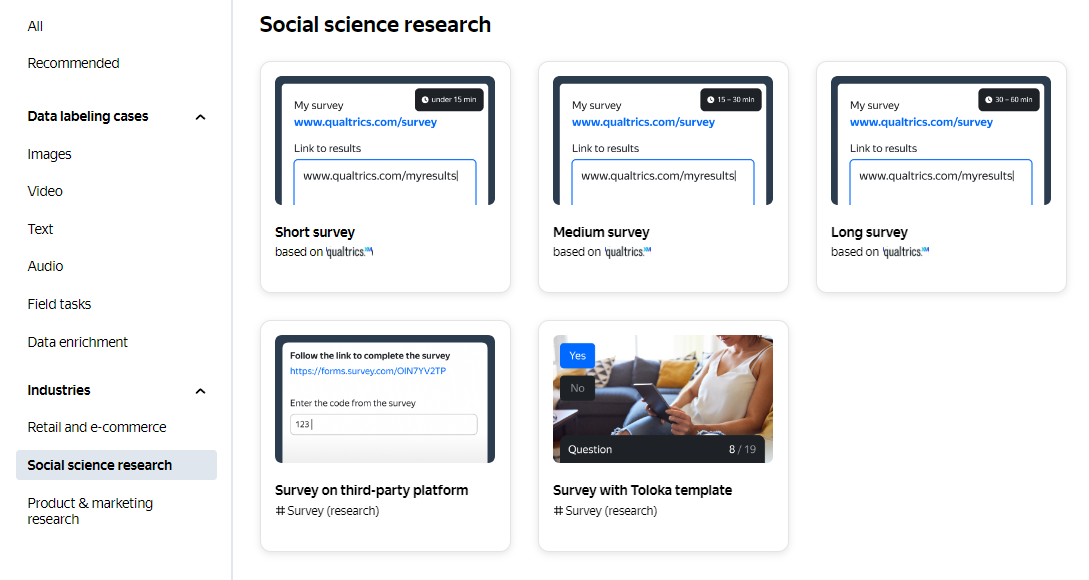
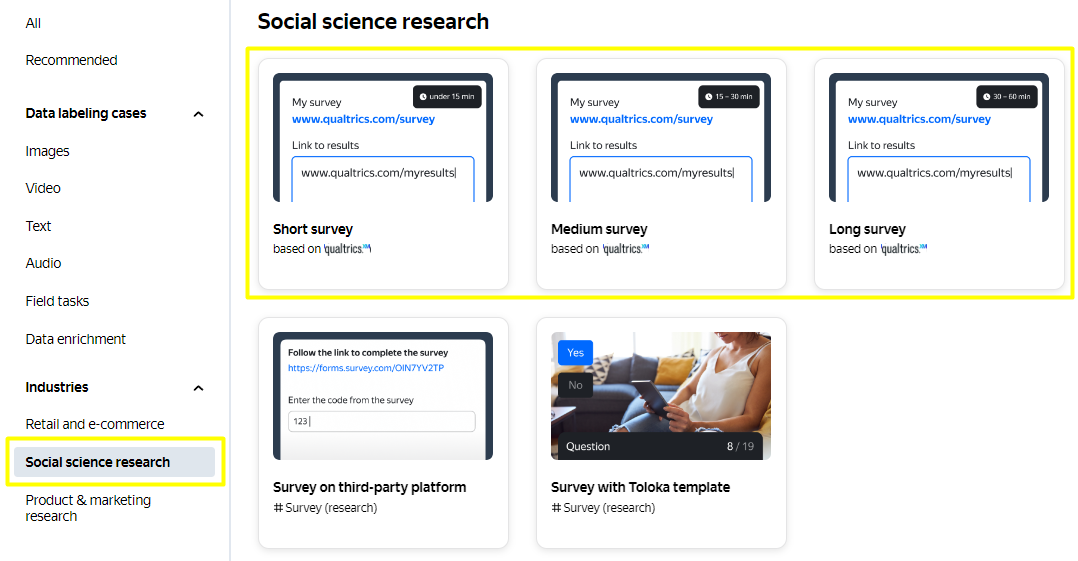
changes by evgenia-rez (mostly in questionnaire-qualtrics.md)

diff --git a/en/guide/tutorials/questionnaire-qualtrics.md b/en/guide/tutorials/questionnaire-qualtrics.md
@@ -4,20 +4,19 @@
 
 In this tutorial, you will learn how to use Toloka to run an academic Qualtrics-based survey. 
 
-Pick this solution, when:
+Choose this solution if you have a Qualtrics survey approved by an institutional review board (IRB), and you don't want to spend time on getting onboard with the standard Toloka projects.
 
-* You have an IRB-approved Qualtrics survey.
-* You do not want to spend time on getting onboard with the standard Toloka projects.
-
-In Toloka, you can place a link to your Qualtrics-based survey. Each Toloker gets an automatically generated code which uniqueness is guaranteed by the [setup instruction](questionnaire-qualtrics.md#code). After Tolokers enter the code, their responses are accepted or rejected automatically. 
+In this type of project, a task in Toloka provides a link to your Qualtrics survey. To enable a Toloker to confirm survey completion, follow the step-by-step guide and embed an automatically generated code to your Qualtrics survey. The respondent will need to copy the code and paste it to the task in Toloka. The response is accepted or rejected automatically, and all the Tolokers who provide valid completion codes are paid.
 
 {% note info %}
 
-To learn about types of Qualtrics-based surveys, see [Choose a preset](questionnaire-qualtrics.md#preset).
+To learn about other Toloka solutions for surveys, see the tutorials:
 
-To learn how to run a survey using other external platforms, see the [Survey on third-party platform](questionnaire-other.md) tutorial.
+- How to run a survey using other external platforms — [Survey on third-party platform](questionnaire-other.md).
 
-To learn how to create a survey form in Toloka, see the [Survey with Toloka template](questionnaire-toloka.md) tutorial.
+- How to create a survey form in Toloka instead of using a third-party platform — [Survey with Toloka template](questionnaire-toloka.md).
+
+The comparison of all the three kinds of the survey presets is provided in the [Overview of survey solutions](questionnaire-overview.md) section.
 
 
 {% endnote %}
@@ -44,106 +43,98 @@ Pick a preset depending on your survey length:
 
 * For short surveys that take 15 minutes or less — [Short survey](https://platform.toloka.ai/requester/templates?choosedCard=IuW9rwmVFAAB1ifPeFvJ&choosedTag=A3MdOlBKzWKcrpxg3JNQ). 
 
-* For medium surveys that take 15-30 minutes — [Medium survey](https://platform.toloka.ai/requester/templates?choosedCard=IuW9rwmVFAAB1ifPeFvF&choosedTag=A3MdOlBKzWKcrpxg3JNQ).
+* For medium surveys that take 15–30 minutes — [Medium survey](https://platform.toloka.ai/requester/templates?choosedCard=IuW9rwmVFAAB1ifPeFvF&choosedTag=A3MdOlBKzWKcrpxg3JNQ).
 
-* For long surveys that take 30-60 minutes — [Long survey](https://platform.toloka.ai/requester/templates?choosedCard=IuW9rwmVFAAB1ifPeFvv&choosedTag=A3MdOlBKzWKcrpxg3JNQ).
+* For long surveys that take 30–60 minutes — [Long survey](https://platform.toloka.ai/requester/templates?choosedCard=IuW9rwmVFAAB1ifPeFvv&choosedTag=A3MdOlBKzWKcrpxg3JNQ).
 
-You may pick one of the three solutions manually:
+You can create the project manually:
+
 1. {% include [tutorials-create-project-button](../_includes/tutorials/create-project-button.md) %}
 
     ![Create project button](../_images/tutorials/survey-qualtrics/create-project-button.png "Create project button" =700x)
-1. Select **Social science research** in the left menu.
+    
+1. In the left menu, click **Social science research**. Select the **Short survey**, **Medium survey**, or **Long survey** preset.
 
     ![Social science research](../_images/tutorials/survey-qualtrics/social-science-research-menu.png "Social science research" =700x)
-1. Pick short, medium, or long survey preset.
+
+1. Click **Choose solution** in the pop-up tab.
 
 
 ## Create a project {#project}
 
-Set up how your tasks will look for Tolokers. Tolokers are people around the world who get paid for completing your tasks.
-1. Add your project name, a link to your Qualtrics survey, and your project description.
+1. Add the general information on your project.
 
-    * **Project name visible to Tolokers**: In 2-5 words, state the general idea of the project.
+    * **Project name visible to Tolokers**: In 2–5 words, state the idea of the project.
 
-    * **Link to your Qualtrics survey**: Add a link to your survey created on Qualtrics.
+    * **Link to your Qualtrics survey**: Add the link to your Qualtrics-based survey.
 
-    * **Project description for Tolokers**: In a couple of sentences, explain what you expect Tolokers to do. This is just an overview. Tolokers will find your detailed instructions after starting the survey.  
+    * **Project description for Tolokers**: In a couple of sentences, explain what you expect Tolokers to do. This is just an overview. Tolokers will find the detailed instructions after they start the survey.  
 
     ![Qualtrics survey description](../_images/tutorials/survey-qualtrics/qualtrics-survey-description.png "Survey description" =700x)
-1. Add survey audience.
-Toloka does not share any user data. If you need data on respondents' country, age, or gender, make sure you ask this in your survey.
 
-    * **Total number of Tolokers**: Add the required number of the survey participants.
+    Note that you don't have to configure the task interface and write the instructions. They are standard for all the Qualtrics survey projects.
 
-    * **Countries of residence**: Specify the countries to sample from. If no selection is made Tolokers from 80 countries will see your survey.
+    {% cut "How your task will look for Tolokers" %}
 
-    * **Gender**: Specify the gender of Tolokers if needed.
+    ![Social science research](../_images/tutorials/survey-qualtrics/task-interface.png "Social science research" =350x)
 
-    * **Age**: Specify the age of Tolokers between 18 and 90 if needed.
+    {% endcut %}
+
+1. Set up the filters to select Tolokers for your survey.
+
+    * **Total number of Tolokers**: Add the required number of respondents.
+
+    * **Countries of residence** (optional): Specify the countries to sample from. If no selection is made, your survey is available to Tolokers from 80 countries specified in the [Countries available in this release](https://toloka.ai/toloka-for-social-sciences/) list.
+
+    * **Gender** (optional): Set the gender of Tolokers.
+
+    * **Age** (optional): Enter the age of Tolokers between 18 and 90.
 
     ![Survey audience](../_images/tutorials/survey-qualtrics/qualtrics-survey-audience.png "Survey audience" =700x)
+
+    {% note info %}
+
+    Toloka does not share any user data. If you need data on respondents' country, age, or gender, make sure you ask this in your survey.
+
+    {% endnote %}
+
 1. Add your academic credentials.
 
-    * **Affiliation**: Add the name of the university.
+    * **Affiliation**: The name of the university.
 
-    * **Institution email**: Add your work email.
+    * **Institution email**: Your email on the university domain.
 
-    * **IRB approval / exemption number**: Add a number of study approved by the institutional review board.
+    * **IRB approval / exemption number**: The study number approved by the IRB.
 
     ![Academic credentials](../_images/tutorials/survey-qualtrics/qualtrics-survey-approval.png "Survey approval" =700x)
 
-1. To save your data click **Create**.
+1. Revise the settings carefully. You will not be able to change them later.
 
-## Embed a code {#code}
+1. To save your data and continue, click **Create**.
 
-After your project is created, add a completion code to your survey:
+## Embed a completion code {#code}
 
-1. Open your survey in Qualtrics.
-1. Create **Embedded data**.
+Toloka controls the data collection completion by exchanging a unique code with Qualtrics. Embed the code to your survey. 
 
-    ![Embedded data](../_images/tutorials/survey-qualtrics/embedded-data.png "Embedded data" =700x)
-1. Create a new field in embedded data, name it **TolokaCode**.
+1. Follow the step-by-step guide provided on the **Finish setup and launch survey** page.
 
-    ![Toloka code](../_images/tutorials/survey-qualtrics/toloka-code.png "Toloka code" =700x)
-1. Move embedded data to the very top of the survey flow.
+1. After you embed the code to your survey, select **My Qualtrics survey has an embedded completion code from Toloka**.
 
-    ![Move data](../_images/tutorials/survey-qualtrics/move-embedded-data.png "Move data" =700x)
-1. Add a new block in the end of the survey so that a respondent would see it only after the survey is fully complete.
+![Academic credentials](../_images/tutorials/survey-qualtrics/embed-code.png "Embed code" =700x)
 
-    ![Add block 1](../_images/tutorials/survey-qualtrics/add-new-block1.png "Add block 1" =700x)
-    ![Add block 2](../_images/tutorials/survey-qualtrics/add-new-block2.png "Add block 2" =700x)
-1. Add a new question with **Text / Graphic type** in the created block.
+1. Click **Launch survey**.
 
-    ![Add question](../_images/tutorials/survey-qualtrics/add-question.png "Add question" =700x)
-1. Paste a message with a code to the question. A code should be printed exactly like this: $e{ e://Field/TolokaCode ^ a - b }, where a and b –numbers which you got after creating a project in Toloka. Please just copy and paste this formula and insert your a and b.
-    ![Code message](../_images/tutorials/survey-qualtrics/add-code.png "Code message" =700x)
+## Launch the survey and get the results {#launch}
 
-## Launch the survey {#launch}
+In the pop-up tab, check the parameters and click **Launch**.
 
-After creating a project and adding a completion code, you may launch the survey:
-1. Click **Start survey**.
-![Startsurvey](../_images/tutorials/survey-qualtrics/start-survey.png "Start survey" =350x)
-1. Check the parameters in the sidebar menu and click **Checkout and launch**. 
-![Checkout and launch](../_images/tutorials/survey-qualtrics/checkout-launch.png "Checkout and launch" =400x)
+![Startsurvey](../_images/tutorials/survey-qualtrics/launch-survey.png "Launch survey" =350x)
 
-## See the results {#results}
-
-Track the progress of responses collection on the pool page, or in Qualtrics. You can start the review when the first results are received.
-1. Go to the pool, and click {% if locale == "en-com" %}**Review assignments**{% endif %}.
-
-    [![See the results. Review assignments](https://yastatic.net/s3/doc-binary/src/support/toloka/en/guide/tutorials/questionnaire/survey-review-results.png =700x)](https://yastatic.net/s3/doc-binary/src/support/toloka/en/guide/tutorials/questionnaire/survey-review-results.png)
-1. After checking all the assignments, сlick the {% if locale == "en-com" %}**Download results**{% endif %} button.
-
-    [![See the results. Download results](https://yastatic.net/s3/doc-binary/src/support/toloka/en/guide/tutorials/questionnaire/questionnaire-download-results.png =700x)](https://yastatic.net/s3/doc-binary/src/support/toloka/en/guide/tutorials/questionnaire/questionnaire-download-results.png)
-1. Click **Download results**
-
-You will get the TSV file. To process the survey results, you can open the file in Excel and save it in the XLSX format.
+Responses are stored on Quatrics. Go there to track the progress of data collection and get the results.
 
 ## Helpful tips {#tips}
 
-- You can use questions with known answers to check that Tolokers pay attention. In that case, even if a Toloker answers incorrectly, it’s better to still provide them a special completion code, different from the correct one. When you see that special code in the results, you can reject the assignment. The Toloker won’t be dissatisfied that you didn't allow them to finish the task.
-
-- Sometimes a survey may follow different scenarios depending on answers given to the previous questions. In this case, make sure that all scenarios have a completion code in the end.
+- If you need additional quality control, add attention checks and forced responses directly in your Qualtrics survey.
 
 - Check the {% if locale == "en-com" %}**Messages**{% endif %} tab regularly to get Tolokers’ reports on problems with your survey.
 

diff --git a/en/guide/tutorials/questionnaire-overview.md b/en/guide/tutorials/questionnaire-overview.md
@@ -1,0 +1,24 @@
+# Overview of survey solutions
+
+To run a social science research, use one of Toloka solutions:
+* [**Survey with Toloka template**](questionnaire-toloka.md):
+    * For short and simple surveys.
+    * To select Tolokers with specific characteristics. 
+* [**Survey on third-party platform**](questionnaire-other.md):
+    * For long and complicated surveys.
+    * If you are already conducting the survey using other channels, and would like to aggregate all the results in one place.
+* [**Survey based on Qualtrics**](questionnaire-qualtrics.md):
+    * If you have an IRB-approved Qualtrics survey.
+    * If you do no want to start a new survey on Toloka. 
+
+Other features of Toloka survey solutions are:
+
+|                                                  | Survey on Toloka template | Survey on third-party platform | Survey on Qualtrics |
+|--------------------------------------------------|---------------------------|--------------------------------|---------------------|
+| **Adaptable presets**                            |             +             |                +               |          -          |
+| **Automatic pool setup**                         |             -             |                -               |          +          |
+| **Clonable pool**                                |             +             |                +               |          -          |
+| **Automatic acceptance of responses**            |             +             |                -               |          +          |
+| **Completion code**                              |             -             |                +               |          +          |
+| **Number of countries to sample from**           |          over 80          |             over 80            |          80         |
+| **Filters other than country, gender, and age**  |             +             |                +               |          -          |
